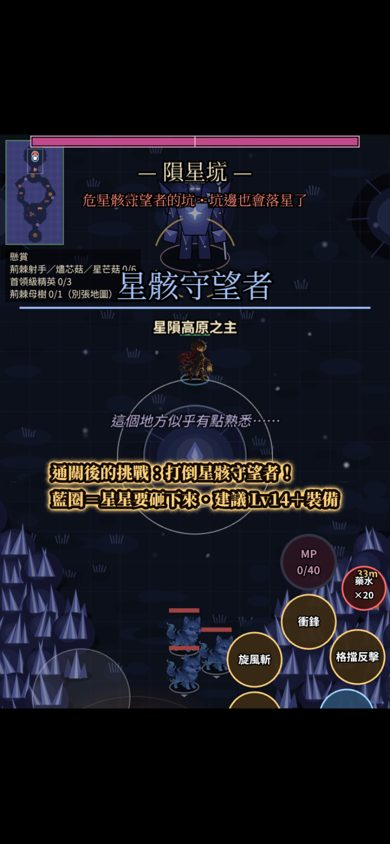
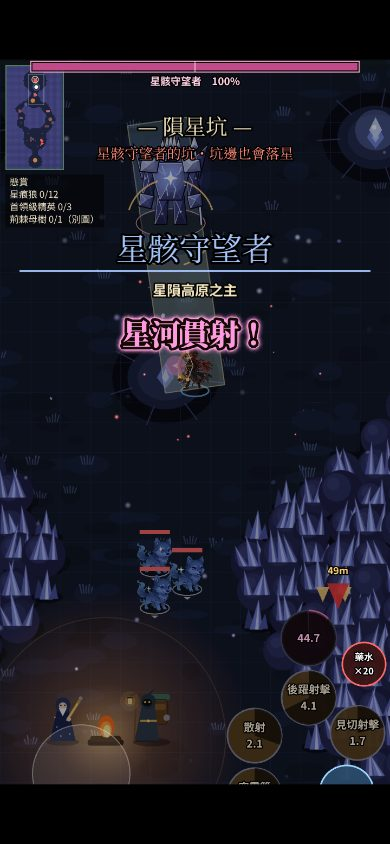
Boss 登場的名字＋稱號在淡出前不讓其他置中大字壓上來：長弓 Bot 一見到星骸守望者就放大招，「星河貫射！」整個蓋住 Boss 名字；README 57／61 換新截圖（長弓見到守望者、法杖對第二階段墜星）
Claude-Session: https://claude.ai/code/session_01DgXGTt6La6TotKfBYfakCr

diff --git a/src/game/scenes/RtBattleScene.ts b/src/game/scenes/RtBattleScene.ts
@@ -54,7 +54,7 @@ import { bountyIdsHere, bountyKill, bountyTargetsOf, cleanBounties } from '../rt
 import { cleanRanks, cleanVariants, mergeMods, rankMods, skillPoints, usedPoints } from '../rtSkills';
 import { openRtSkillPanel } from '../ui/rtSkillPanel';
 import { EMPTY_SNAP, FURY_UNLOCK, cleanBag, fmtSec, furyUnlocked, loadRecord, nightUnlocked, mergeRun, recordBoss, saveRecord, spend, mapOpen, nextGoal, levelTip, bossKillsOf, returnIntro, walletOf, type RtRecord, type RunSnap } from '../rtRecord';
-import { BANNER_DEPTH, TITLE_FONT, UI_FONT, bigText, floatNumber, shockRing, sparks } from '../fx/feel';
+import { BANNER_DEPTH, TITLE_FONT, UI_FONT, bigText, floatNumber, reserveBanner, shockRing, sparks } from '../fx/feel';
 import { Ambient } from '../fx/ambient';
 import { loadFinaleStats, playFinale, playPrologue, prologueSeen } from '../ui/finale';
 import { choiceOf, loadChoices, makeChoice, saveChoices, shopDiscountPct, SPARE_DISCOUNT, type BossChoice, type ChoicePick } from '../choices';
@@ -3506,6 +3506,8 @@ export class RtBattleScene extends Phaser.Scene {
     });
     // 第 43 輪：整組往下挪 70（以前名字壓在左上角懸賞板的字上，懸賞板到 y≈425）
     const IY = 70;
+    // 名字＋稱號這一塊（y 約 420～556）在淡出前不讓其他置中大字（大招名、升級…）壓上來（D-184）
+    reserveBanner(this, 488 + IY - 70, 150, 1800);
     const line = this.add.rectangle(-GAME_WIDTH / 2, 430 + IY, GAME_WIDTH * 0.9, 4, Phaser.Display.Color.HexStringToColor(col).color, 0.9).setDepth(881);
     const name = this.add.text(-GAME_WIDTH / 2, 392 + IY, `${d.fury ? '暴怒的' : ''}${def.name}`, { fontFamily: TITLE_FONT, fontSize: '58px', color: col, stroke: '#000', strokeThickness: 8 }).setOrigin(0.5).setDepth(882);
     const subT = this.add.text(GAME_WIDTH * 1.5, 466 + IY, sub, { fontFamily: UI_FONT, fontSize: '26px', fontStyle: '700', color: '#f4e6c0', stroke: '#000', strokeThickness: 5 }).setOrigin(0.5).setDepth(882);

diff --git a/src/game/fx/feel.ts b/src/game/fx/feel.ts
@@ -138,7 +138,19 @@ export function shockRing(scene: Phaser.Scene, x: number, y: number, color: numb
 const BANNER_CEIL = 430;
 /** 置中大字的深度（抉擇面板開著時會把這一層藏起來，第 43 輪） */
 export const BANNER_DEPTH = 950;
-const BANNERS = new WeakMap<Phaser.Scene, { t: Phaser.GameObjects.Text; h: number; fading: boolean }[]>();
+const BANNERS = new WeakMap<Phaser.Scene, { t: { active: boolean; y: number }; h: number; fading: boolean }[]>();
+
+/**
+ * 把一塊不是 bigText 的置中大字（例如 Boss 登場的名字＋稱號）登記成「佔用中」，ms 毫秒後讓出（第 53 輪，D-184）：
+ * 以前 Boss 登場那一刻 Bot／玩家放大招，「星河貫射！」會直接蓋在「星骸守望者」上面。
+ */
+export function reserveBanner(scene: Phaser.Scene, cy: number, h: number, ms: number): void {
+  const e = { t: { active: true, y: cy }, h, fading: false };
+  const live = (BANNERS.get(scene) ?? []).filter((b) => b.t.active && !b.fading);
+  live.push(e);
+  BANNERS.set(scene, live);
+  scene.tweens.addCounter({ from: 0, to: 1, duration: ms, onComplete: () => { e.fading = true; e.t.active = false; } });
+}
 
 /** 畫面中央大字（PERFECT / BREAK / VICTORY） */
 export function bigText(
